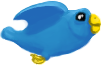
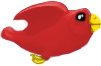
Andere vogel plaatjes toegevoegd, meer begrijpelijke start positie.

diff --git a/README.md b/README.md
@@ -1,2 +1,4 @@
 # Flappy Bird
 Een flappy bird spel, gemaakt met behulp van het Love2D framework en geschreven in Lua.
+
+_Dit is de uitgewerkte versie._
